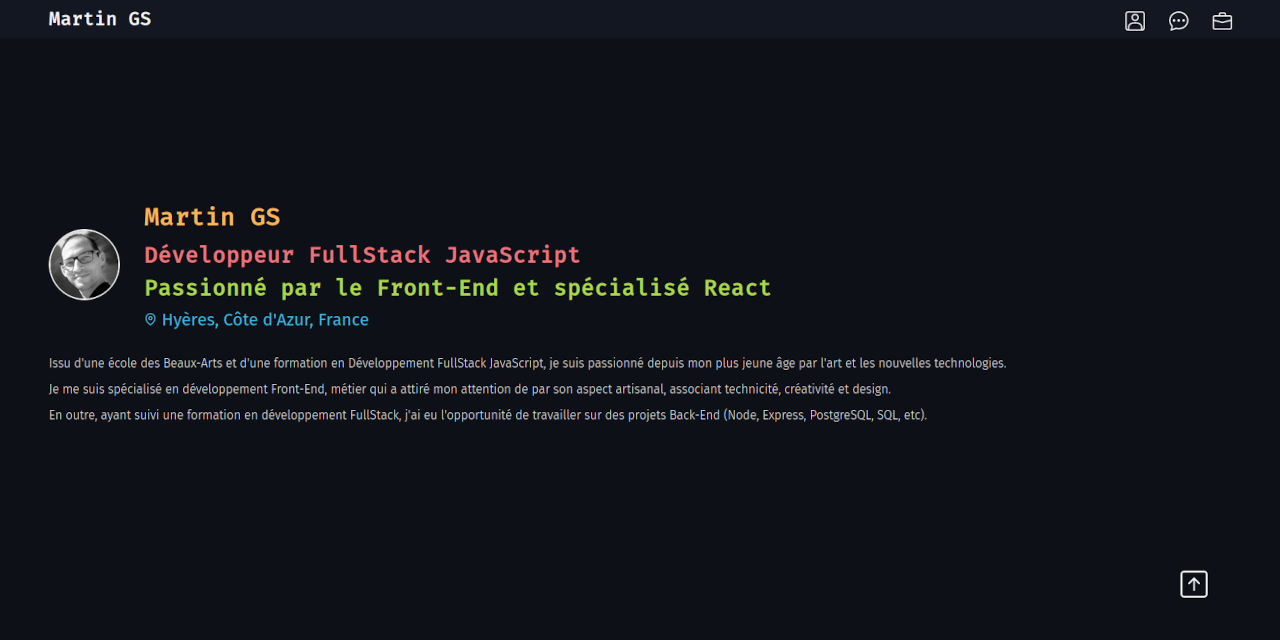
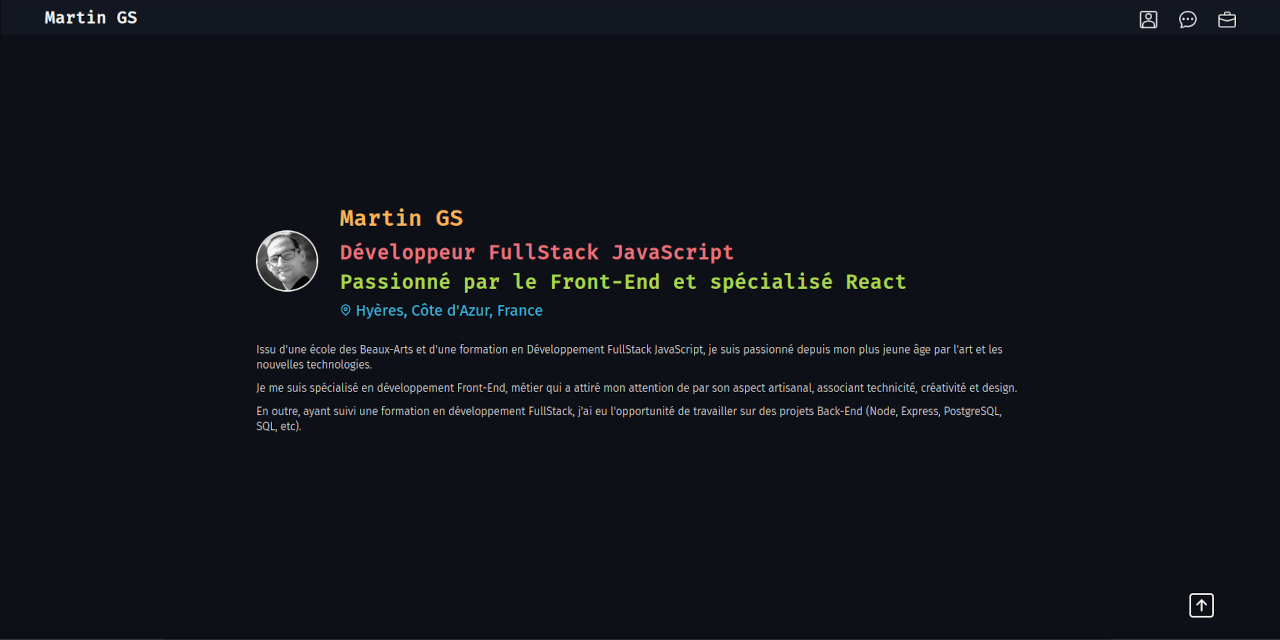
About : center div (add phantom divs) + update doc/preview

diff --git a/src/scripts/app.js b/src/scripts/app.js
@@ -100,10 +100,29 @@ const app = {
     aboutContainer.id = 'about';
     aboutContainer.classList = 'about';
     app.mainElement.appendChild(aboutContainer);
+
+    // phantom left div for large screens
+    const phantomLeft = document.createElement('div');
+    phantomLeft.classList = 'about-phantom';
+    aboutContainer.appendChild(phantomLeft);
+
+
+    // content
+    const aboutContent = document.createElement('div');
+    aboutContent.classList = 'about-content';
+    aboutContainer.appendChild(aboutContent);
+
+    // phantom right div for large screens
+    const phantomRight = document.createElement('div');
+    phantomRight.classList = 'about-phantom';
+    aboutContainer.appendChild(phantomRight);
+
+
+
     // about-labels : titles AND portrait
     const labelsDiv = document.createElement('div');
     labelsDiv.classList = "about-labels";
-    aboutContainer.appendChild(labelsDiv);
+    aboutContent.appendChild(labelsDiv);
     // portrait
     const portraitDiv = document.createElement('div');
     portraitDiv.classList = 'about-labels-portrait';
@@ -156,7 +175,7 @@ const app = {
     const resumeDiv = document.createElement('div');
     resumeDiv.classList = "about-resume";
     resumeDiv.innerHTML = data.about.resume;
-    aboutContainer.appendChild(resumeDiv);
+    aboutContent.appendChild(resumeDiv);
   },
 
   /**

diff --git a/src/styles/style.css b/src/styles/style.css
@@ -177,8 +177,28 @@ h5 {
 .about {
   height: 100vh;
   display: flex;
-  flex-direction: column;
+  flex-direction: row;
   justify-content: center;
+  align-items: center;
+}
+
+/* Mobile */
+@media only screen and (max-width: 767px) {
+  .about-phantom {
+    display: none;
+  }
+}
+
+/* Tablet & Desktop */
+@media only screen and (min-width: 768px) {
+  .about-phantom {
+    width: 20%;
+  }
+}
+
+.about-content {
+  display: flex;
+  flex-direction: column;
 }
 
 /* Mobile */
